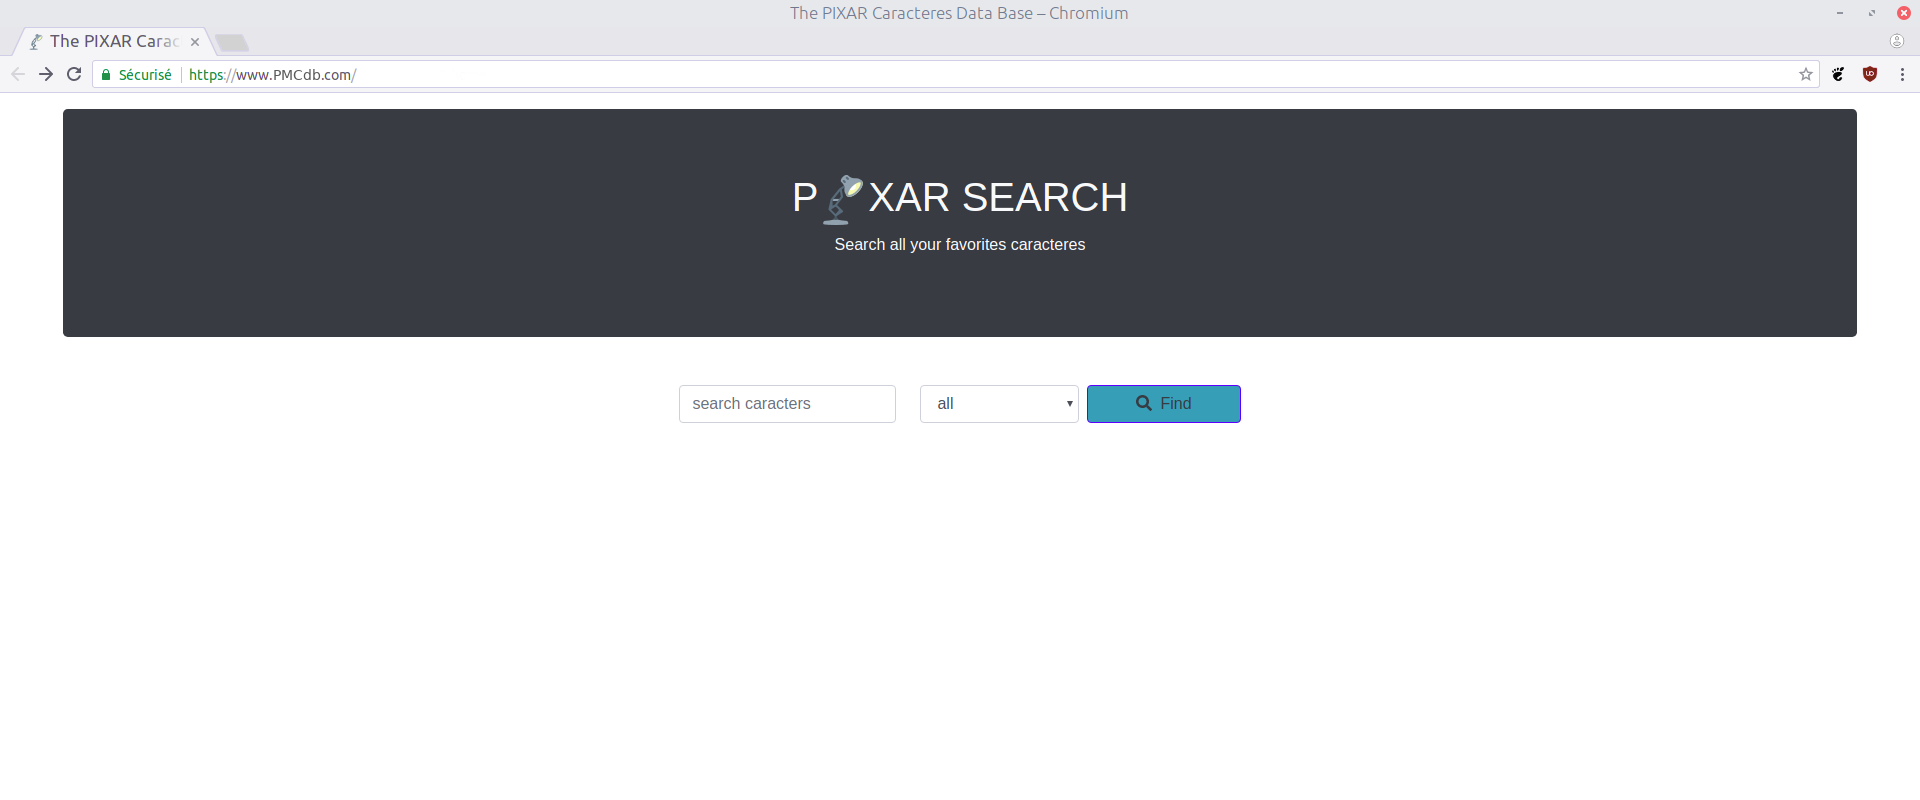
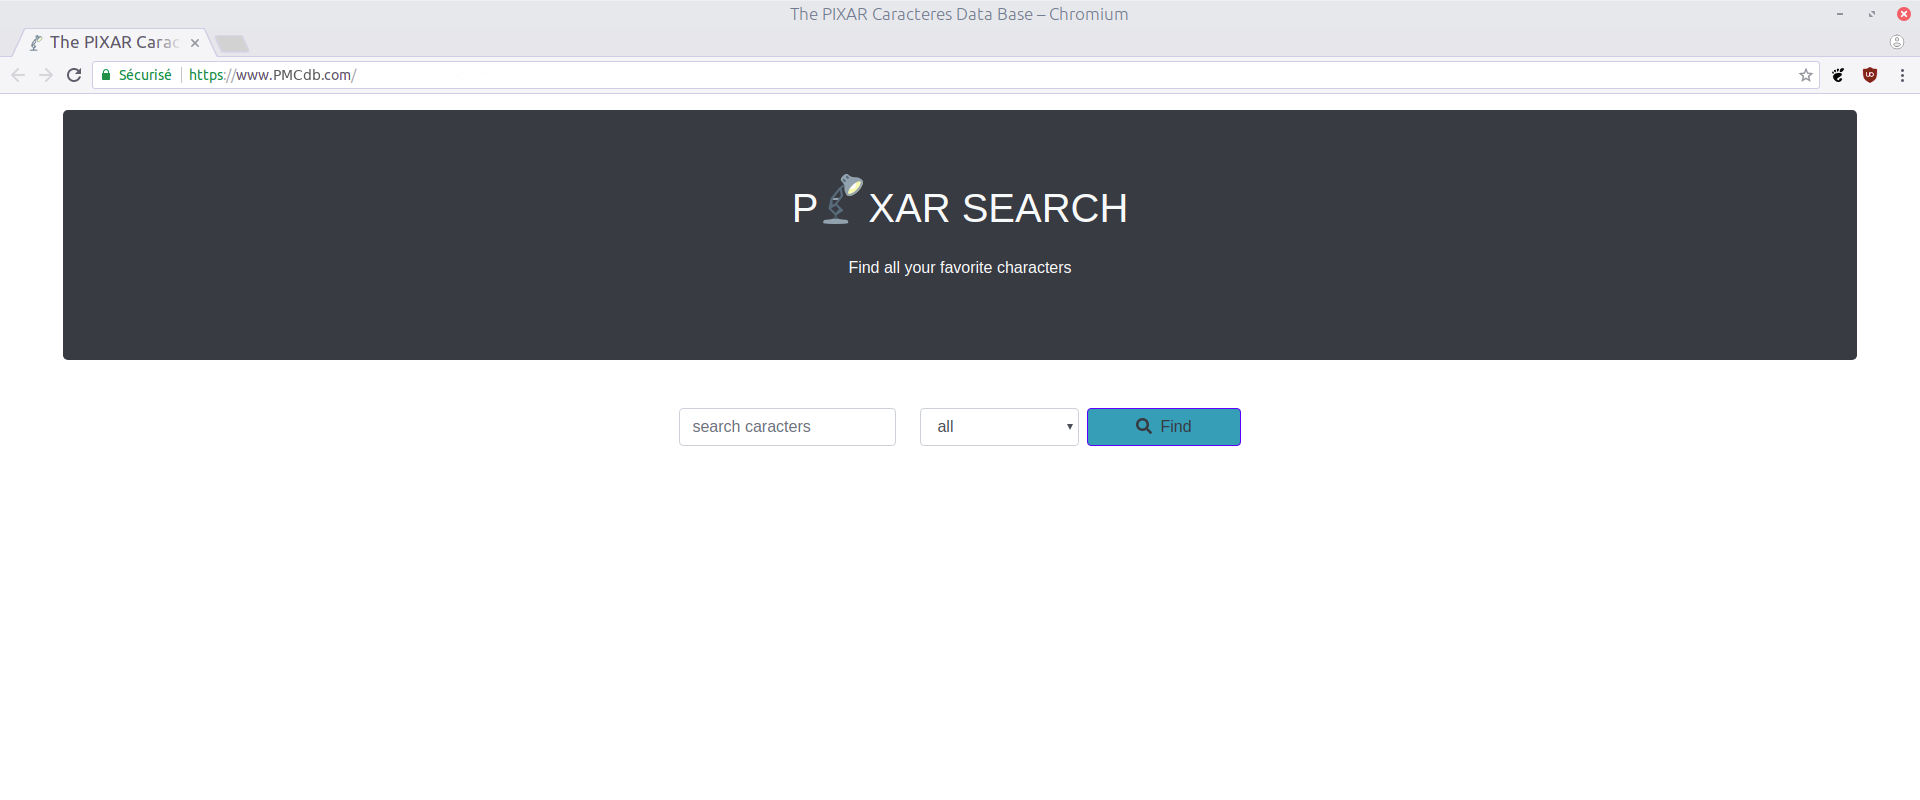
update screenshot

diff --git a/FORM.html b/FORM.html
@@ -8,14 +8,14 @@
   <script defer src="https://use.fontawesome.com/releases/v5.0.8/js/all.js"></script>
   <title>The PIXAR Caracteres Data Base</title>
   <link rel="shortcut icon" href="ressources/favicon.png" type="image/x-icon">
-  <meta name="description" content="One Website to Rules them All">
+  <meta name="description" content="the PIXAR Movies Caracteres database">
 </head>
 <main>
   <body>
     <div class="container-fluid">
       <div class="jumbotron text-center text-light bg-dark mx-5 mt-3">
 
-        <h1>P<img class="w-50px" src="ressources/favicon.png" alt="the pixal desk lamp">XAR SEARCH</h1>
+        <h1>P<img class="pb-4" src="ressources/favicon.png" alt="the pixal desk lamp">XAR SEARCH</h1>
         <p>Find all your favorite characters</p>
       </div>
       <div class="row mt-5">
